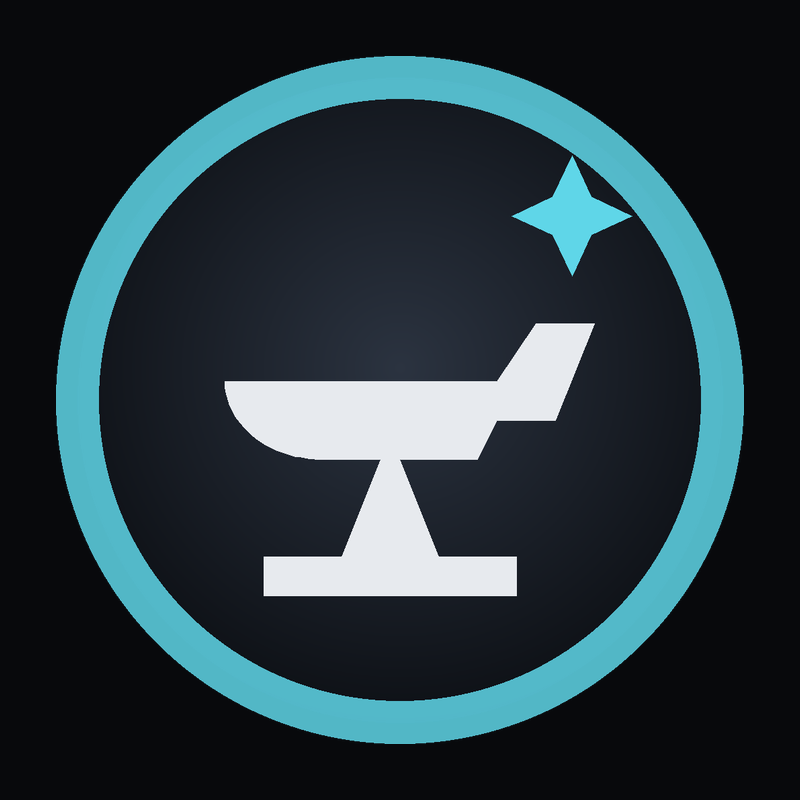
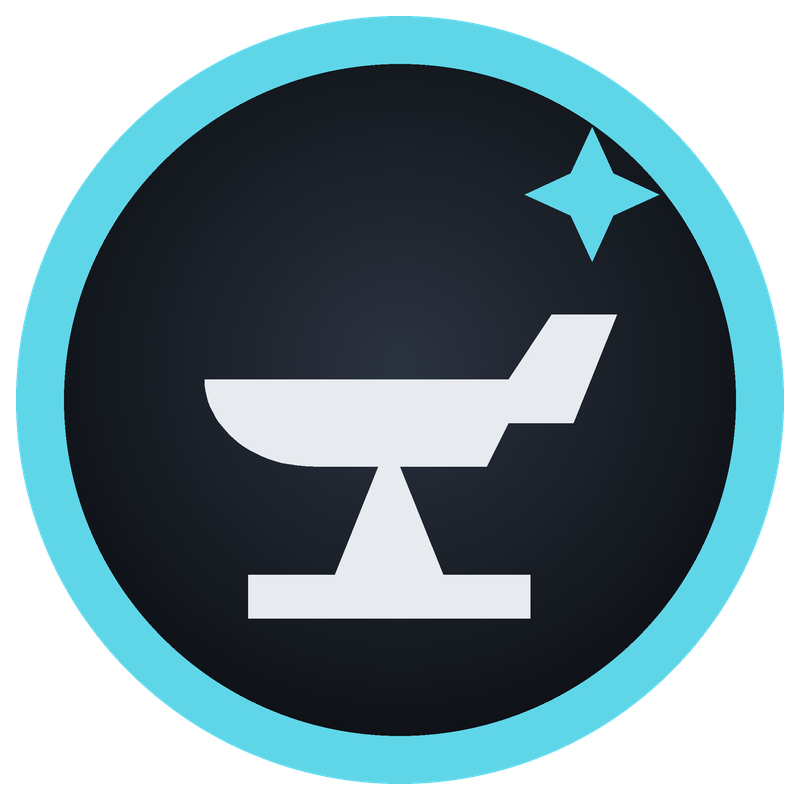
Transparent profile pictures (SVG, 436 and 800 px) with a solid ring
make_favicon.draw() takes ring_alpha so avatars on light backgrounds get an
opaque ring; the favicon keeps its 85% ring.

diff --git a/make_favicon.py b/make_favicon.py
@@ -15,7 +15,7 @@ def bezier(p0, p1, p2, p3, n=24):
             for t in (i / n for i in range(1, n + 1))]
 
 
-def draw(background=None):
+def draw(background=None, ring_alpha=217):
     img = Image.new('RGBA', (SS, SS), background or (0, 0, 0, 0))
     # disc with the radial gradient (#2b3340 → #0d1015), centre (20, 18.1), radius 20.6
     disc = Image.new('RGBA', (SS, SS))
@@ -31,7 +31,7 @@ def draw(background=None):
     img.alpha_composite(Image.composite(disc, Image.new('RGBA', (SS, SS)), mask))
     # cyan ring: r 18.75, width 2.5, 85% opacity
     ring = Image.new('RGBA', (SS, SS))
-    ImageDraw.Draw(ring).ellipse([0, 0, SS - 1, SS - 1], outline=(0x5f, 0xd6, 0xe8, 217), width=round(2.5 * K))
+    ImageDraw.Draw(ring).ellipse([0, 0, SS - 1, SS - 1], outline=(0x5f, 0xd6, 0xe8, ring_alpha), width=round(2.5 * K))
     img.alpha_composite(ring)
     d = ImageDraw.Draw(img)
     # anvil: the emblem path, scaled 1.13 and nudged (translate(-2.6 -1.4))
